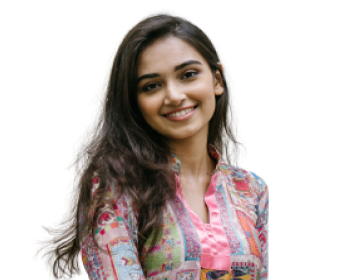
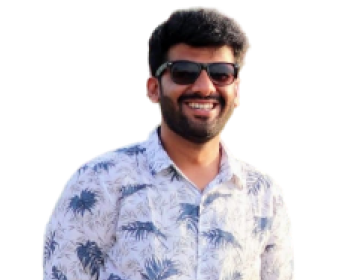
fix: Update testimonials/highlights section

diff --git a/data.js b/data.js
@@ -22,35 +22,35 @@ const howItWorksData = [
 const highlightsData = [
   {
     highlightNumber: 1,
-    highlightDetails: "I love Cheq as I can pay bills anytime, anywhere by just scanning the QR code.",
+    highlightDetails: "With its ease of payment and wider acceptability at local shops, Cheq has become my go-to mode of payment",
     imageSrc: "/images/highlights/yellow_user.png",
     imageBg: "/images/highlights/yellow_bg.svg",
-    alt: "Photo of Keshav",
-    userName: "Keshav",
-    userAge: 27,
-    tags: ["instantApproval"],
+    alt: "Photo of Sanjana",
+    userName: "Sanjana",
+    userAge: 29,
+    tags: ["hassleFree", "widelyAccepted"],
     theme: "#EBDA7F"
   },
   {
     highlightNumber: 2,
-    highlightDetails: "Since I have started using Cheq, I have won rewards worth over ₹1,000 already!",
+    highlightDetails: "I always wished I could get rewarded on all of my small offline purchases too. Cheq does exactly that.",
     imageSrc: "/images/highlights/purple_user.png",
     imageBg: "/images/highlights/purple_bg.svg",
-    alt: "Photo of Ankita",
-    userName: "Ankita",
-    userAge: 31,
-    tags: ["highRewards"],
+    alt: "Photo of Abhinav",
+    userName: "Abhinav",
+    userAge: 30,
+    tags: ["moreRewards"],
     theme: "#988FFF"
   },
   {
     highlightNumber: 3,
-    highlightDetails: "Cheq's KYC process is so fast that it  gets approved within 10-15 minutes.",
+    highlightDetails: "After using Cheq, my bank statement looks much cleaner without a lot of small value payments. I'm able to keep better track of my spends now.",
     imageSrc: "/images/highlights/green_user.png",
     imageBg: "/images/highlights/green_bg.svg",
-    alt: "Photo of Akhil",
-    userName: "Akhil",
-    userAge: 24,
-    tags: ["hassleFree", "widelyAccepted"],
+    alt: "Photo of Sourabh",
+    userName: "Sourabh",
+    userAge: 35,
+    tags: ["easyTracking"],
     theme: "#5CC993"
   },
   {
@@ -58,9 +58,9 @@ const highlightsData = [
     highlightDetails: "Cheq's secure swipe payment let's me pay easily without entering any PIN.",
     imageSrc: "/images/highlights/pink_user.png",
     imageBg: "/images/highlights/pink_bg.svg",
-    alt: "Photo of Shruti",
-    userName: "Shruti",
-    userAge: 22,
+    alt: "Photo of Ravish",
+    userName: "Ravish",
+    userAge: 29,
     tags: ["convenient", "secure"],
     theme: "#FF70BE"
   },
